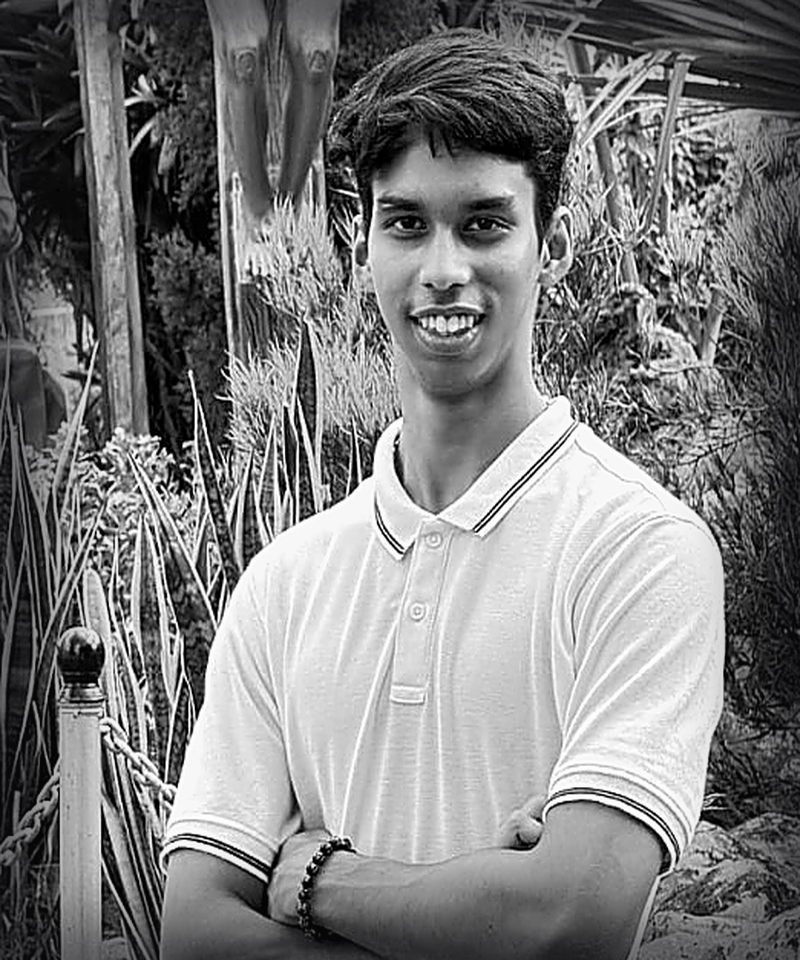
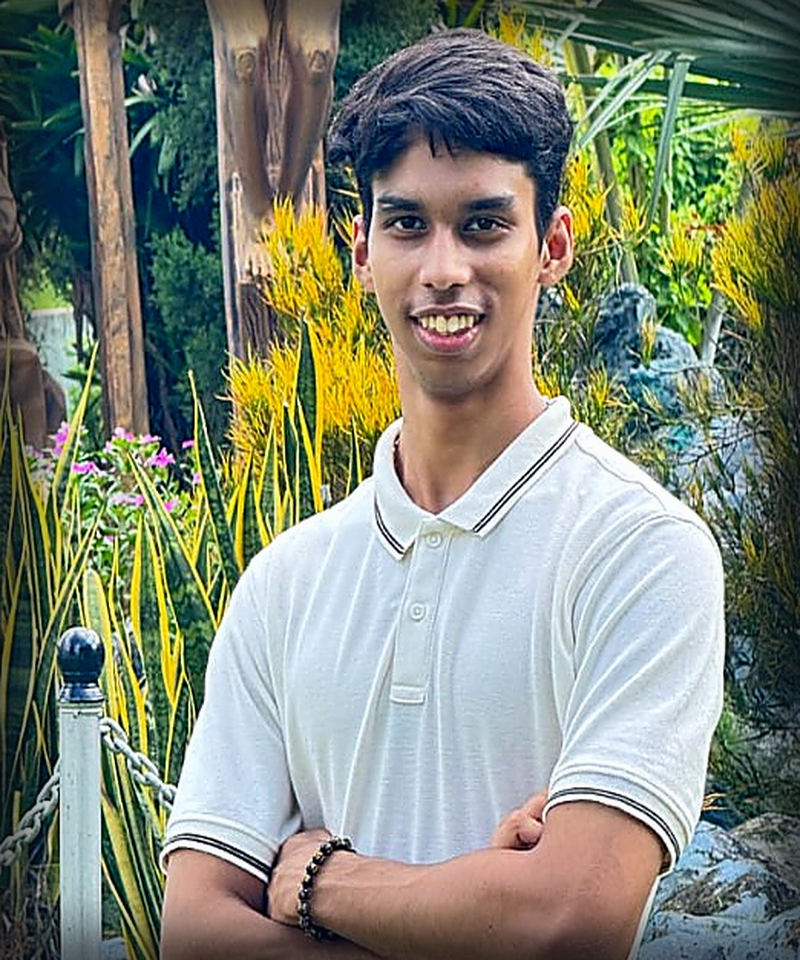
Switch portrait photo from black and white to full natural color

diff --git a/src/components/Hero.tsx b/src/components/Hero.tsx
@@ -88,7 +88,7 @@ export const Hero: React.FC = () => {
           </div>
         </motion.div>
 
-        {/* Right Column: High-Contrast B&W Photographic Focal Point */}
+        {/* Right Column: Full Color Portrait Focal Point */}
         <motion.div 
           initial={{ opacity: 0, scale: 0.95 }}
           animate={{ opacity: 1, scale: 1 }}
@@ -103,23 +103,20 @@ export const Hero: React.FC = () => {
             {/* Photo Container Card */}
             <div className="relative rounded-2xl overflow-hidden bg-zinc-900 border border-zinc-800/80 shadow-2xl">
               {/* Overlay vignette */}
-              <div className="absolute inset-0 bg-gradient-to-t from-[#09090b] via-transparent to-transparent opacity-80 z-10" />
+              <div className="absolute inset-0 bg-gradient-to-t from-[#09090b] via-transparent to-transparent opacity-70 z-10" />
 
-              {/* Film Grain Texture Layer */}
-              <div className="absolute inset-0 opacity-20 pointer-events-none z-20 mix-blend-overlay bg-grid-pattern" />
-
-              {/* Main Photo of Manuel */}
+              {/* Main Photo of Manuel in Full Color */}
               <img
                 src={PERSONAL_DATA.images.hero!}
                 alt="Manuel Gomes — AI & Web Developer"
-                className="w-full h-[420px] sm:h-[500px] object-cover object-top filter grayscale contrast-[1.25] brightness-[0.98] group-hover:scale-105 transition-transform duration-700 ease-out"
+                className="w-full h-[420px] sm:h-[500px] object-cover object-top group-hover:scale-105 transition-transform duration-700 ease-out"
               />
 
               {/* Photo Bottom Caption */}
               <div className="absolute bottom-6 left-6 right-6 z-20 flex items-center justify-between">
                 <div>
                   <h3 className="text-sm font-bold tracking-widest uppercase text-white font-sans">MANUEL GOMES</h3>
-                  <p className="text-[11px] font-mono text-zinc-400 uppercase tracking-wider">AI Developer & Entrepreneur</p>
+                  <p className="text-[11px] font-mono text-zinc-300 uppercase tracking-wider">AI Developer & Entrepreneur</p>
                 </div>
                 <div className="p-2 rounded-full bg-zinc-950/80 border border-zinc-800 backdrop-blur-md">
                   <Sparkles className="w-4 h-4 text-zinc-300" />

diff --git a/src/components/PhotoBreak.tsx b/src/components/PhotoBreak.tsx
@@ -13,17 +13,17 @@ export const PhotoBreak: React.FC = () => {
 
   return (
     <section ref={containerRef} className="relative h-[70vh] sm:h-[80vh] w-full overflow-hidden border-y border-zinc-900 flex items-center justify-center">
-      {/* Background Image with slow Parallax */}
+      {/* Background Image in Full Natural Color with slow Parallax */}
       <motion.div style={{ y }} className="absolute inset-0 w-full h-[120%] -top-[10%]">
         <img
           src={PERSONAL_DATA.images.break!}
-          alt="Manuel Gomes — Cinematic Visual Break"
-          className="w-full h-full object-cover filter grayscale contrast-130 brightness-75 object-top"
+          alt="Manuel Gomes — Visual Break"
+          className="w-full h-full object-cover brightness-90 object-top"
         />
       </motion.div>
 
       {/* Dark Vignette Overlays */}
-      <div className="absolute inset-0 bg-gradient-to-t from-[#09090b] via-black/40 to-[#09090b] opacity-80" />
+      <div className="absolute inset-0 bg-gradient-to-t from-[#09090b] via-black/40 to-[#09090b] opacity-75" />
       <div className="absolute inset-0 bg-grid-pattern opacity-25" />
 
       {/* Minimal Overlay Content */}
@@ -33,7 +33,7 @@ export const PhotoBreak: React.FC = () => {
           whileInView={{ opacity: 1, y: 0 }}
           viewport={{ once: true }}
           transition={{ duration: 0.8 }}
-          className="text-xs font-mono uppercase tracking-[0.3em] text-zinc-400 font-semibold"
+          className="text-xs font-mono uppercase tracking-[0.3em] text-zinc-300 font-semibold"
         >
           // MANUEL GOMES
         </motion.p>
@@ -51,7 +51,7 @@ export const PhotoBreak: React.FC = () => {
           whileInView={{ opacity: 1 }}
           viewport={{ once: true }}
           transition={{ duration: 0.8, delay: 0.4 }}
-          className="text-xs font-mono text-zinc-400 tracking-widest uppercase"
+          className="text-xs font-mono text-zinc-300 tracking-widest uppercase"
         >
           The journey is still loading...
         </motion.p>

diff --git a/src/components/About.tsx b/src/components/About.tsx
@@ -27,12 +27,12 @@ export const About: React.FC = () => {
               <img
                 src={PERSONAL_DATA.images.about!}
                 alt="Manuel Gomes — Portrait"
-                className="w-full h-[440px] md:h-[500px] object-cover object-top filter grayscale contrast-[1.2] brightness-95 group-hover:scale-105 transition-transform duration-700"
+                className="w-full h-[440px] md:h-[500px] object-cover object-top group-hover:scale-105 transition-transform duration-700"
               />
               <div className="absolute inset-0 bg-gradient-to-t from-[#09090b] via-transparent to-transparent opacity-60" />
               
               <div className="absolute bottom-6 left-6 right-6">
-                <p className="text-[11px] font-mono uppercase tracking-widest text-zinc-400">TECHNO INDIA UNIVERSITY</p>
+                <p className="text-[11px] font-mono uppercase tracking-widest text-zinc-300">TECHNO INDIA UNIVERSITY</p>
                 <p className="text-sm font-semibold text-white">Data Science & Artificial Intelligence</p>
               </div>
             </div>

diff --git a/dist/index.html b/dist/index.html
@@ -10,8 +10,8 @@
     <link rel="preconnect" href="https://fonts.googleapis.com">
     <link rel="preconnect" href="https://fonts.gstatic.com" crossorigin>
     <link href="https://fonts.googleapis.com/css2?family=Inter:wght@300;400;500;600;700;800;900&family=JetBrains+Mono:wght@400;500&display=swap" rel="stylesheet">
-    <script type="module" crossorigin src="./assets/index-Cl7CEr8w.js"></script>
-    <link rel="stylesheet" crossorigin href="./assets/index-v6NFmL9K.css">
+    <script type="module" crossorigin src="./assets/index-CsPYKmBQ.js"></script>
+    <link rel="stylesheet" crossorigin href="./assets/index-BZaGS5tM.css">
   </head>
   <body class="bg-[#09090b] text-zinc-100 selection:bg-zinc-200 selection:text-black antialiased font-sans overflow-x-hidden">
     <div id="root"></div>
